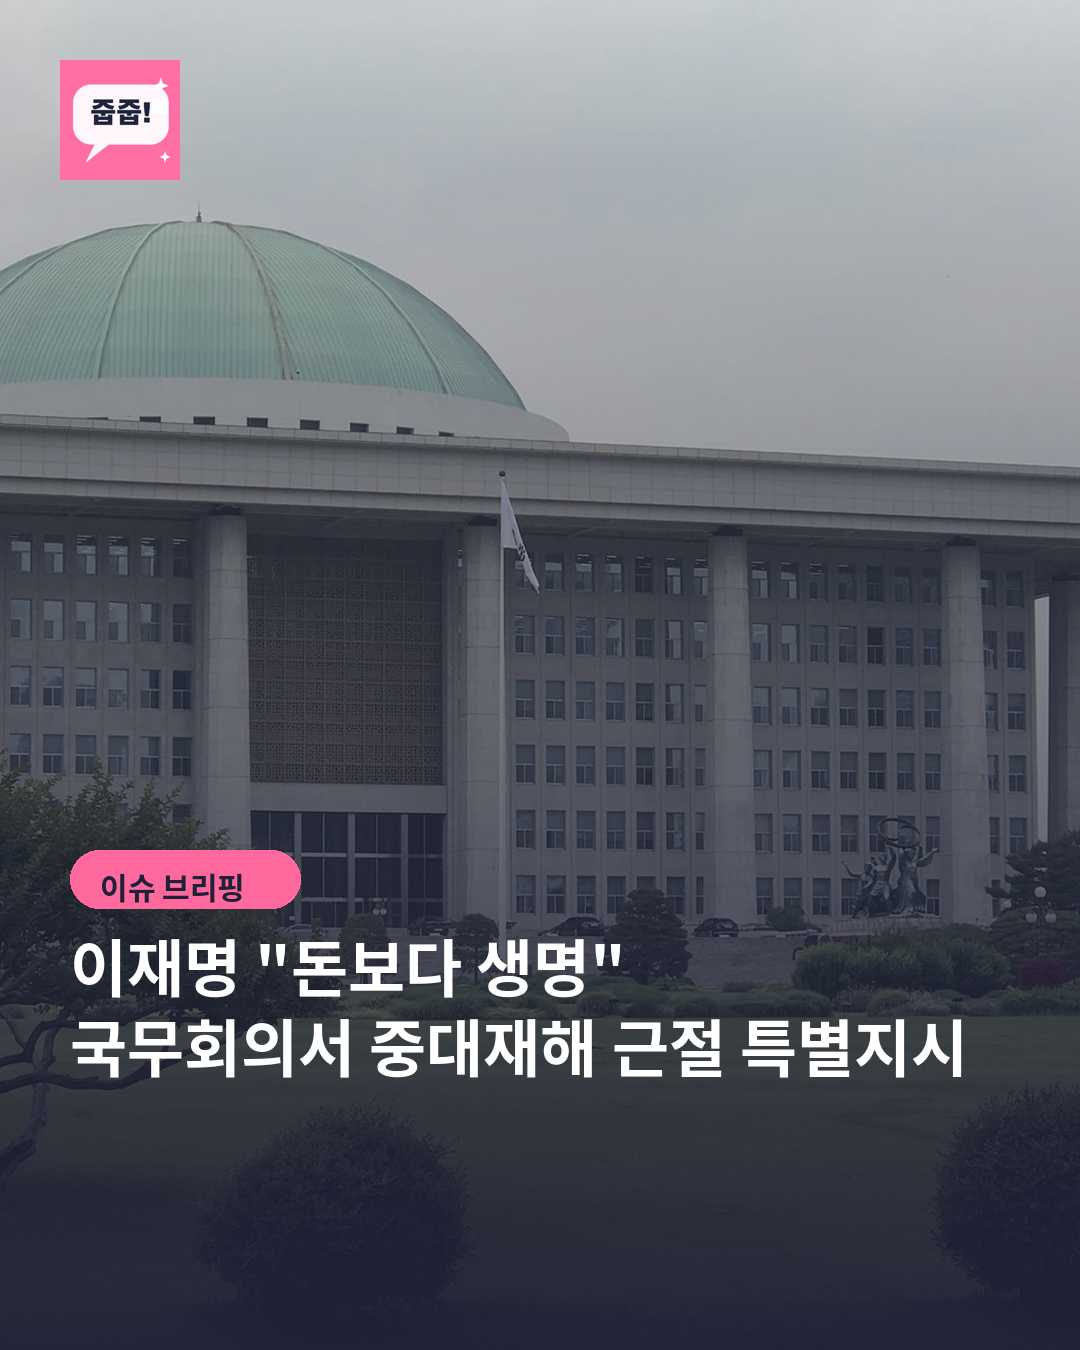
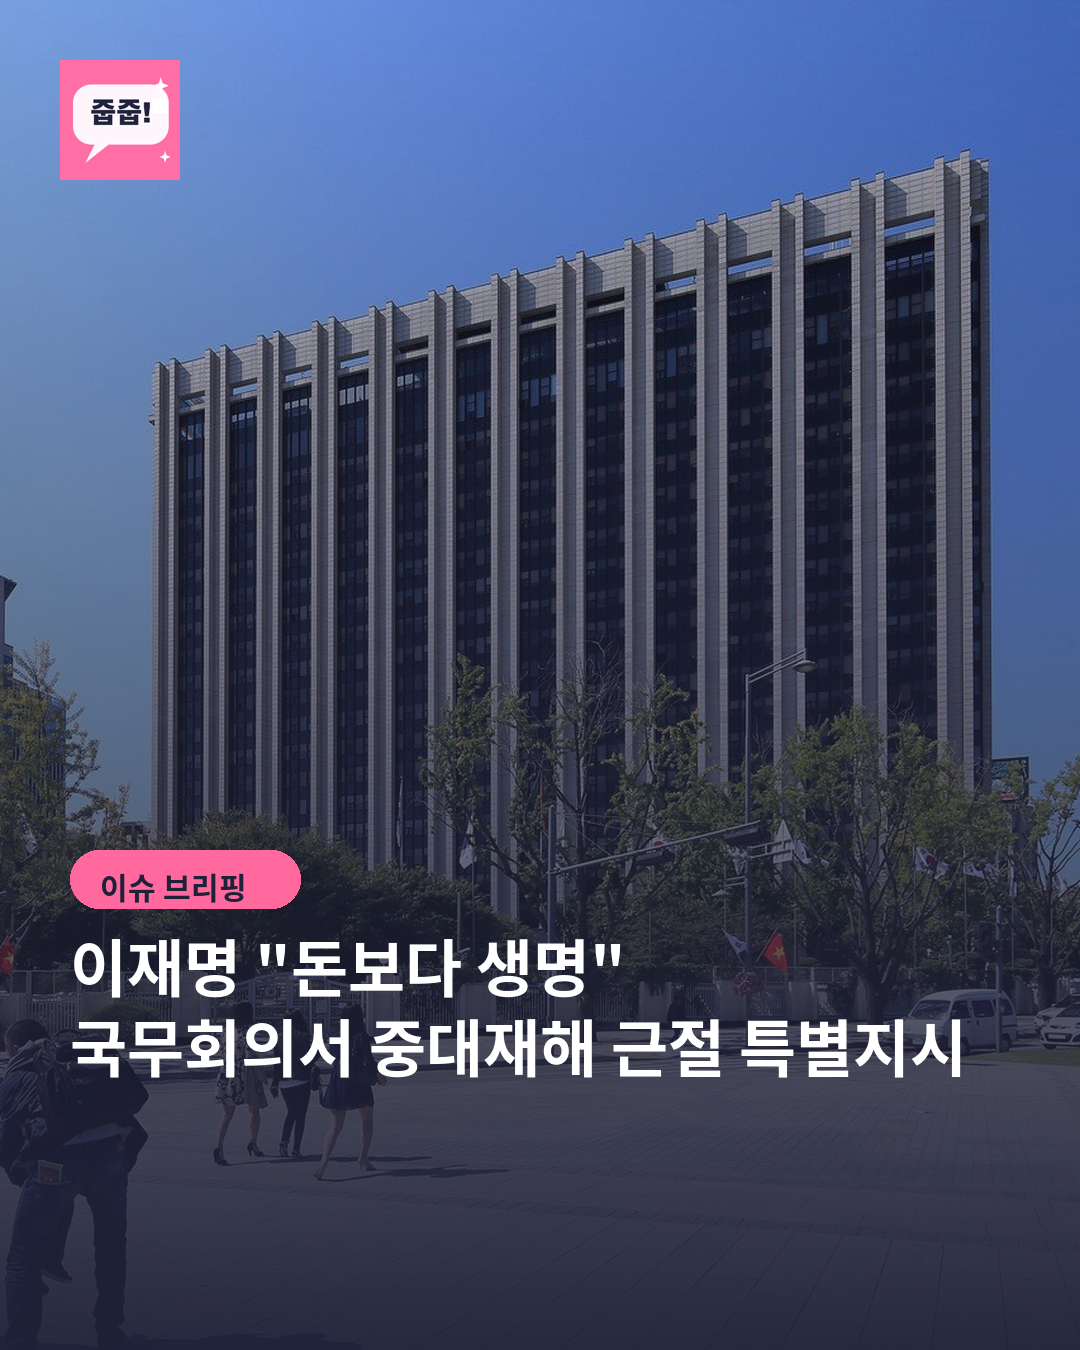
Replace mismatched images for 2026-08-29 cards 1, 3, 4
Card 1 used the National Assembly (already overused); now the actual
Government Complex Seoul building. Card 3 used a heat-wave thermometer
photo for a heavy-rain story; now a real Seoul rainy-night street scene.
Card 4 used an airport photo for a Kia union strike story; now a real
Korean labor-strike rally (KCTU) with picket flags. All 3 new sources
are license-verified and added to the bundled stock library.

diff --git a/articles/2026-08-29.md b/articles/2026-08-29.md
@@ -100,10 +100,10 @@ KG레이디스오픈 1R 단독 선두
 24. [아주경제 - 3개월 만에 2%대 물가상승률…정부 "최고가격제 0.3%p 인하 효과"](https://www.ajunews.com/view/20260804080331311)
 
 ### 카드 이미지 출처 (전 건 자체 라이브러리 대체 사용 — 위키미디어 커먼즈 프록시 접속 403 차단으로 실시간 수집 불가)
-- 카드1 (국무회의): [National Assembly (Parliament) Building in Seoul Korea](https://commons.wikimedia.org/wiki/File:National_Assembly_(Parliament)_Building_in_Seoul_Korea.jpg) — CC-BY-SA 4.0, Joongwon Lee (SKKU DOA)
+- 카드1 (국무회의): [Government Complex Seoul Main Building](https://commons.wikimedia.org/wiki/File:Government_Complex_Seoul_Main_Building.jpg) — CC-BY 4.0, Seoul Institute (chaisook) (정부서울청사 실사진으로 교체)
 - 카드2 (네팔 홍수, 대체 이미지): [Flooding on FDR Drive, following Hurricane Sandy](https://commons.wikimedia.org/wiki/File:Flooding_on_FDR_Drive,_following_Hurricane_Sandy.jpg) — CC-BY 2.0, Beth Carey (네팔 현지 사진은 어제 카드에 사용되어 일반 홍수 사진으로 대체)
-- 카드3 (호우특보): [41 Celsius recorded on Thermometer during a Heat Wave](https://commons.wikimedia.org/wiki/File:41_Celsius_recorded_on_Thermometer_during_a_Heat_Wave.jpg) — CC-BY-SA 2.0, Couch-scratching-cats
-- 카드4 (기아 파업, 대체 이미지): [Incheon International Airport Air Traffic Control tower and terminal 2](https://commons.wikimedia.org/wiki/File:Incheon_International_Airport_Air_Traffic_Control_tower_and_terminal_2.jpg) — CC-BY-SA 4.0, Christophe95 (자동차 공장 사진은 어제 카드에 사용되어 산업 시설 이미지로 대체)
+- 카드3 (호우특보): [Raining Evening, Gangnam Seoul](https://commons.wikimedia.org/wiki/File:Raining_Evening_(108260953).jpeg) — CC-BY-SA 3.0, Joon Kyu Park (폭염 사진에서 실제 서울 강남 야간 폭우 사진으로 교체)
+- 카드4 (기아 파업): [2013-12-28 KCTU General Strike Flags](https://commons.wikimedia.org/wiki/File:2013-12-28_KCTU_General_Strike_Flags.jpg) — Public Domain, Salamander724 (공항 사진에서 민주노총 총파업 집회 깃발 사진으로 교체)
 - 카드5 (코스피, 반도체주 훈풍 반영): [Building of Taiwan Semiconductor Manufacturing Fab 12B at dusk](https://commons.wikimedia.org/wiki/File:Building_of_Taiwan_Semiconductor_Manufacturing_Fab_12B_at_dusk1.jpg) — CC-BY 2.0, 曾 成訓 (Zeng Chengxun)
 - 카드6 (부동산, 대체 이미지): [Norton Children's Hospital Exterior](https://commons.wikimedia.org/wiki/File:Norton_Children's_Hospital_Exterior.jpg) — CC-BY-SA 4.0, Alexismessmer (아파트 사진은 어제 카드에 사용되어 건물 외관 이미지로 대체)
 - 카드7 (제주 실종사건, 중립 이미지): [NYPD Police Car](https://commons.wikimedia.org/wiki/File:NYPD_Police_Car.jpg) — CC-BY 2.0, William Hoiles

diff --git a/assets/stock/stock_attribution.md b/assets/stock/stock_attribution.md
@@ -21,6 +21,9 @@
 | disaster_nepal_flood.jpg | https://commons.wikimedia.org/wiki/File:Flood_in_Biratnagar_2019.jpg | CC-BY-SA 4.0 | Sandeep Raut |
 | court_korea_constitutional.jpg | https://commons.wikimedia.org/wiki/File:Constitutional_Court_of_Korea_(2015).jpg | CC-BY-SA 2.0 | Wei-Te Wong |
 | politics_assembly_conference.jpg | https://commons.wikimedia.org/wiki/File:Main_conference_room_of_South_korean_national_assembly_building.JPG | CC-BY-SA 3.0 | Dmthoth |
+| politics_govcomplex_seoul.jpg | https://commons.wikimedia.org/wiki/File:Government_Complex_Seoul_Main_Building.jpg | CC-BY 4.0 | Seoul Institute (chaisook) |
+| weather_rain_seoul.jpg | https://commons.wikimedia.org/wiki/File:Raining_Evening_(108260953).jpeg | CC-BY-SA 3.0 | Joon Kyu Park |
+| labor_strike_kctu.jpg | https://commons.wikimedia.org/wiki/File:2013-12-28_KCTU_General_Strike_Flags.jpg | Public Domain | Salamander724 |
 
 ## Failed (no local file — candidates 404'd or were rate-limited on every retry)
 - sports_baseball (attempted: Jamsil Baseball Stadium Seoul)
